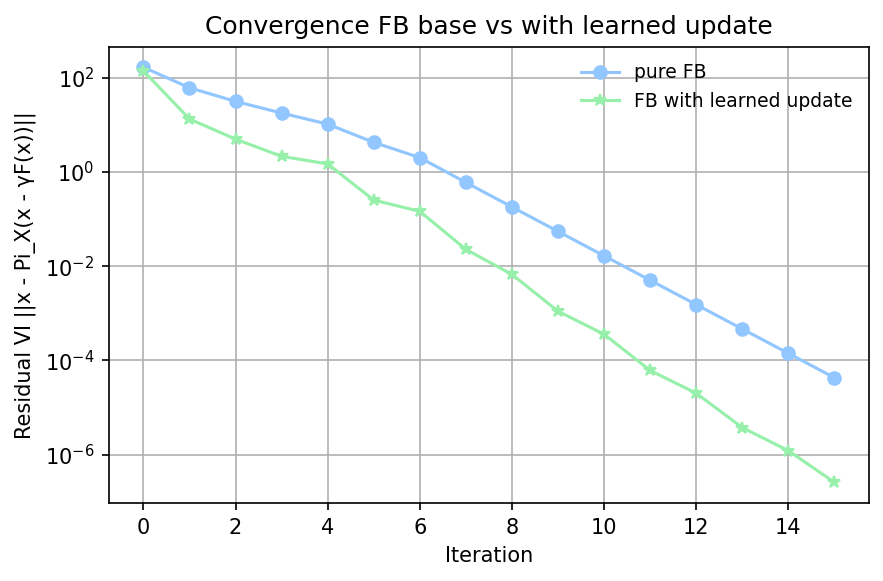
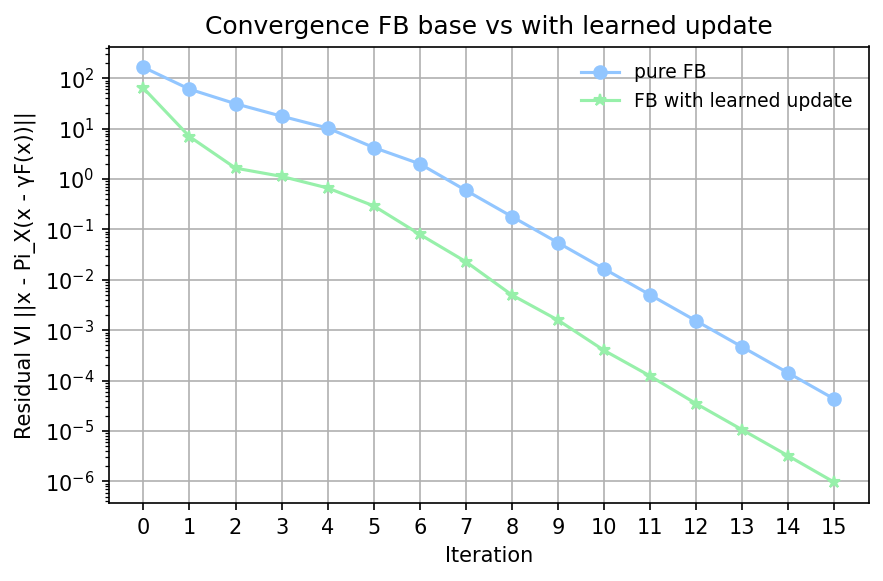
good plot

diff --git a/L2Play_new.py b/L2Play_new.py
@@ -22,7 +22,7 @@ np.random.seed(1234)
 
 N = 3 # number of prosumers
 gamma = 0.1 # step Forward-Backward
-max_iter = 20
+max_iter = 18
 tol=1e-6
 
 # set of neighbors of each prosumer
@@ -141,12 +141,6 @@ def learned_FB_step(n:EnergyNetwork, model, t:int, training:bool):
     
     n_new.__setflattenstate__(n_new.x +  update)
     
-    """
-    if t<13:
-        x_next =  x_base +  update
-    else:
-        x_next = x_base.clone() # pure FB after 13 steps
-    """
 
     n_new.project_all_agents_global_approx()
     return n_new, update.norm().item()
@@ -212,8 +206,8 @@ def main():
         shuffle=True,
     )
 
-    learned_update = LearnedUpdate(d, q=0, rho=0.5).to(device) #esempio 0 -> 0.4
-    meta_optimizer = torch.optim.Adam(learned_update.parameters(), lr=2e-3) #esempio 0 -> 1e-2
+    learned_update = LearnedUpdate(d, q=0, rho=0.5).to(device) #esempio 0 -> 0.3 random->0.5
+    meta_optimizer = torch.optim.Adam(learned_update.parameters(), lr=2e-3) #esempio 0 -> 1e-1  random -> 2e-3
 
     T = 15
     epochs = 50
@@ -244,11 +238,11 @@ def main():
     
     n_pure_base = n_base.clone()
 
-    """
+    
     x_in = n_base.x.unsqueeze(0).unsqueeze(-1)   # (1, d, 1)
     update = learned_update(x_in, 0).squeeze(0)   # (d,)
-    n_base.__setflattenstate__(0.5 * n_base.x + 0.5 * update)
-    """
+    n_base.__setflattenstate__(update)
+    
 
     residuals_l2p = []
     residuals = []
@@ -268,7 +262,7 @@ def main():
         n_base = n_l_new.clone()     
         n_pure_base = n_pure_new.clone()
 
-               
+             
         if err < tol or err_l < tol:
             print(f"Convergenza raggiunta a iterazione {it}")
             break

diff --git a/plot_results.py b/plot_results.py
@@ -117,7 +117,7 @@ def plot_convergence(residuals, residuals_l, legend1="", legend2="", namefig="pl
     plt.ylabel('Residual VI ||x - Pi_X(x - γF(x))||')
     plt.legend(loc='best', fontsize=9, frameon=False)
     plt.title(title)
-    plt.gca().xaxis.set_major_locator(MaxNLocator(integer=True))
+    plt.xticks(range(len(residuals)))
     plt.grid(True)
     plt.tight_layout()
     plt.savefig(f"plot/{namefig}",dpi=150, bbox_inches="tight")
